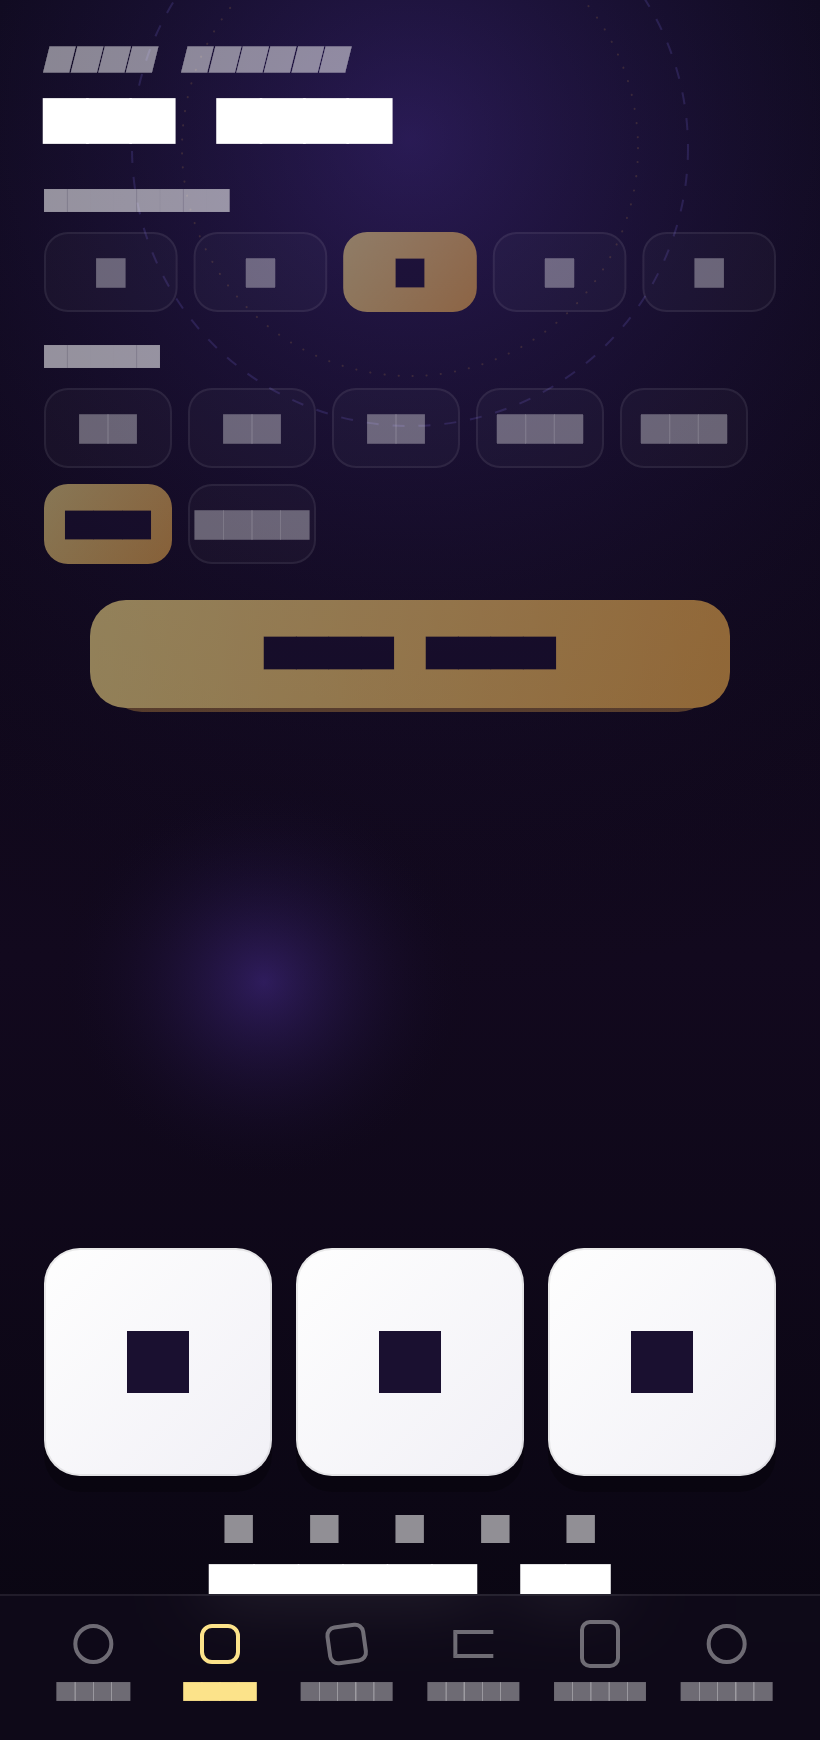
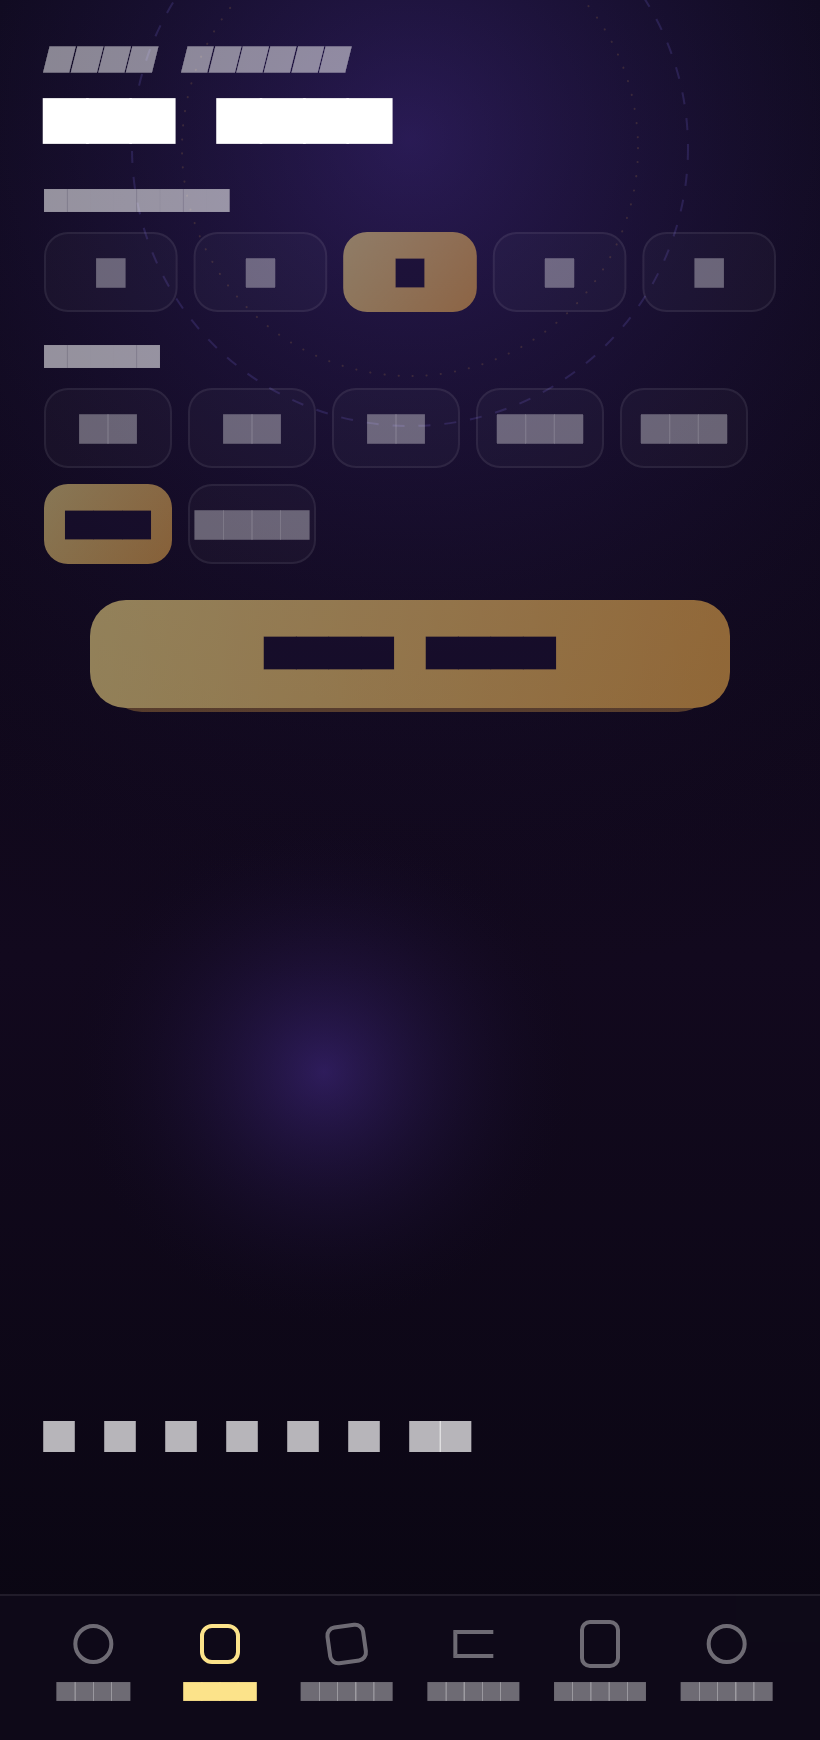
feat(dice): enlarge 3D dice and drop redundant result cards
The 3D dice are the visual result, so the ivory Flutter result cards were
redundant. Remove them and show only a small caption summing the roll
("a + b = total", or "Total: n" for a single die). Enlarge the renderer
region and increase the dice scale (reinit divisor 8 -> 5) so the dice
read clearly on device.

Claude-Session: https://claude.ai/code/session_018CgvACNndSUfb4X3HNA9jm

Changed region(s): [[0.0305, 0.7138, 0.9451, 0.931], [0.2439, 0.5276, 0.5183, 0.6828]]

diff --git a/lib/screens/dice_roll_screen.dart b/lib/screens/dice_roll_screen.dart
@@ -184,33 +184,21 @@ class _DiceRollScreenState extends ConsumerState<DiceRollScreen>
               style: const TextStyle(fontSize: 13, color: Color(0xFFFFC9C9)),
             ),
           ],
-          const SizedBox(height: 18),
-          if (state.results.isNotEmpty)
-            Column(
-              children: [
-                _DiceResults(results: state.results),
-                const SizedBox(height: 16),
-                Text(
-                  state.results.join('  +  '),
-                  textAlign: TextAlign.center,
-                  style: const TextStyle(
-                    fontSize: 14,
-                    color: AppColors.textCaption,
-                  ),
-                ),
-                const SizedBox(height: 4),
-                Text(
-                  l10n.diceTotal(state.total),
-                  key: const Key('dice-total'),
-                  textAlign: TextAlign.center,
-                  style: const TextStyle(
-                    fontSize: 22,
-                    fontWeight: FontWeight.w800,
-                    color: Colors.white,
-                  ),
-                ),
-              ],
+          if (state.results.isNotEmpty) ...[
+            const SizedBox(height: 12),
+            Text(
+              state.results.length > 1
+                  ? '${state.results.join(' + ')} = ${state.total}'
+                  : l10n.diceTotal(state.total),
+              key: const Key('dice-total'),
+              textAlign: TextAlign.center,
+              style: const TextStyle(
+                fontSize: 15,
+                fontWeight: FontWeight.w700,
+                color: AppColors.whiteMuted,
+              ),
             ),
+          ],
         ],
       ),
     );
@@ -301,7 +289,7 @@ class _DiceAnimationRegion extends StatelessWidget {
   @override
   Widget build(BuildContext context) {
     return SizedBox(
-      height: 230,
+      height: 320,
       child: Stack(
         alignment: Alignment.center,
         children: [
@@ -312,71 +300,10 @@ class _DiceAnimationRegion extends StatelessWidget {
                 colors: [AppColors.ritualGlow, Colors.transparent],
               ),
             ),
-            child: SizedBox(width: 220, height: 220),
+            child: SizedBox(width: 280, height: 280),
           ),
           Positioned.fill(child: child),
         ],
-      ),
-    );
-  }
-}
-
-/// Ivory dice faces with gold pips, echoing the prototype's settled 3D dice.
-class _DiceResults extends StatelessWidget {
-  const _DiceResults({required this.results});
-
-  final List<int> results;
-
-  @override
-  Widget build(BuildContext context) {
-    return GridView.builder(
-      shrinkWrap: true,
-      physics: const NeverScrollableScrollPhysics(),
-      itemCount: results.length,
-      gridDelegate: const SliverGridDelegateWithFixedCrossAxisCount(
-        crossAxisCount: 3,
-        mainAxisSpacing: 12,
-        crossAxisSpacing: 12,
-        childAspectRatio: 1,
-      ),
-      itemBuilder: (context, index) => _DieFace(value: results[index]),
-    );
-  }
-}
-
-class _DieFace extends StatelessWidget {
-  const _DieFace({required this.value});
-
-  final int value;
-
-  @override
-  Widget build(BuildContext context) {
-    return DecoratedBox(
-      decoration: BoxDecoration(
-        borderRadius: BorderRadius.circular(18),
-        gradient: const LinearGradient(
-          colors: [Color(0xFFFEFEFE), Color(0xFFF1F0F6)],
-          begin: Alignment.topLeft,
-          end: Alignment.bottomRight,
-        ),
-        border: Border.all(color: const Color(0x14000000)),
-        boxShadow: const [
-          BoxShadow(
-            color: Color(0x40000000),
-            blurRadius: 16,
-            offset: Offset(0, 8),
-          ),
-        ],
-      ),
-      child: Center(
-        child: Text(
-          '$value',
-          style: const TextStyle(
-            fontSize: 30,
-            fontWeight: FontWeight.w900,
-            color: AppColors.goldText,
-          ),
-        ),
       ),
     );
   }

diff --git a/assets/dice/dice.js b/assets/dice/dice.js
@@ -143,7 +143,7 @@ const DICE = (function() {
         this.w = this.cw;
         this.h = this.ch;
         this.aspect = Math.min(this.cw / this.w, this.ch / this.h);
-        vars.scale = Math.sqrt(this.w * this.w + this.h * this.h) / 8;
+        vars.scale = Math.sqrt(this.w * this.w + this.h * this.h) / 5;
         //console.log('scale = ' + vars.scale);
 
         this.renderer.setSize(this.cw * 2, this.ch * 2);

diff --git a/test/widget_test.dart b/test/widget_test.dart
@@ -118,7 +118,7 @@ void main() {
     await tester.tap(find.text('Roll dice'));
     await tester.pumpAndSettle();
 
-    expect(find.text('Total: 5'), findsOneWidget);
+    expect(find.text('2 + 3 = 5'), findsOneWidget);
     expect(service.requests, [(2, 1, 20)]);
   });
 

diff --git a/test/dice_roll_screen_test.dart b/test/dice_roll_screen_test.dart
@@ -61,7 +61,6 @@ void main() {
     await tester.pump();
     await tester.pump();
 
-    expect(find.byType(GridView), findsOneWidget);
     expect(container.read(diceRollProvider).total, 3);
     expect(find.byKey(const Key('dice-total')), findsOneWidget);
     expect(find.text('Renderer unavailable'), findsWidgets);